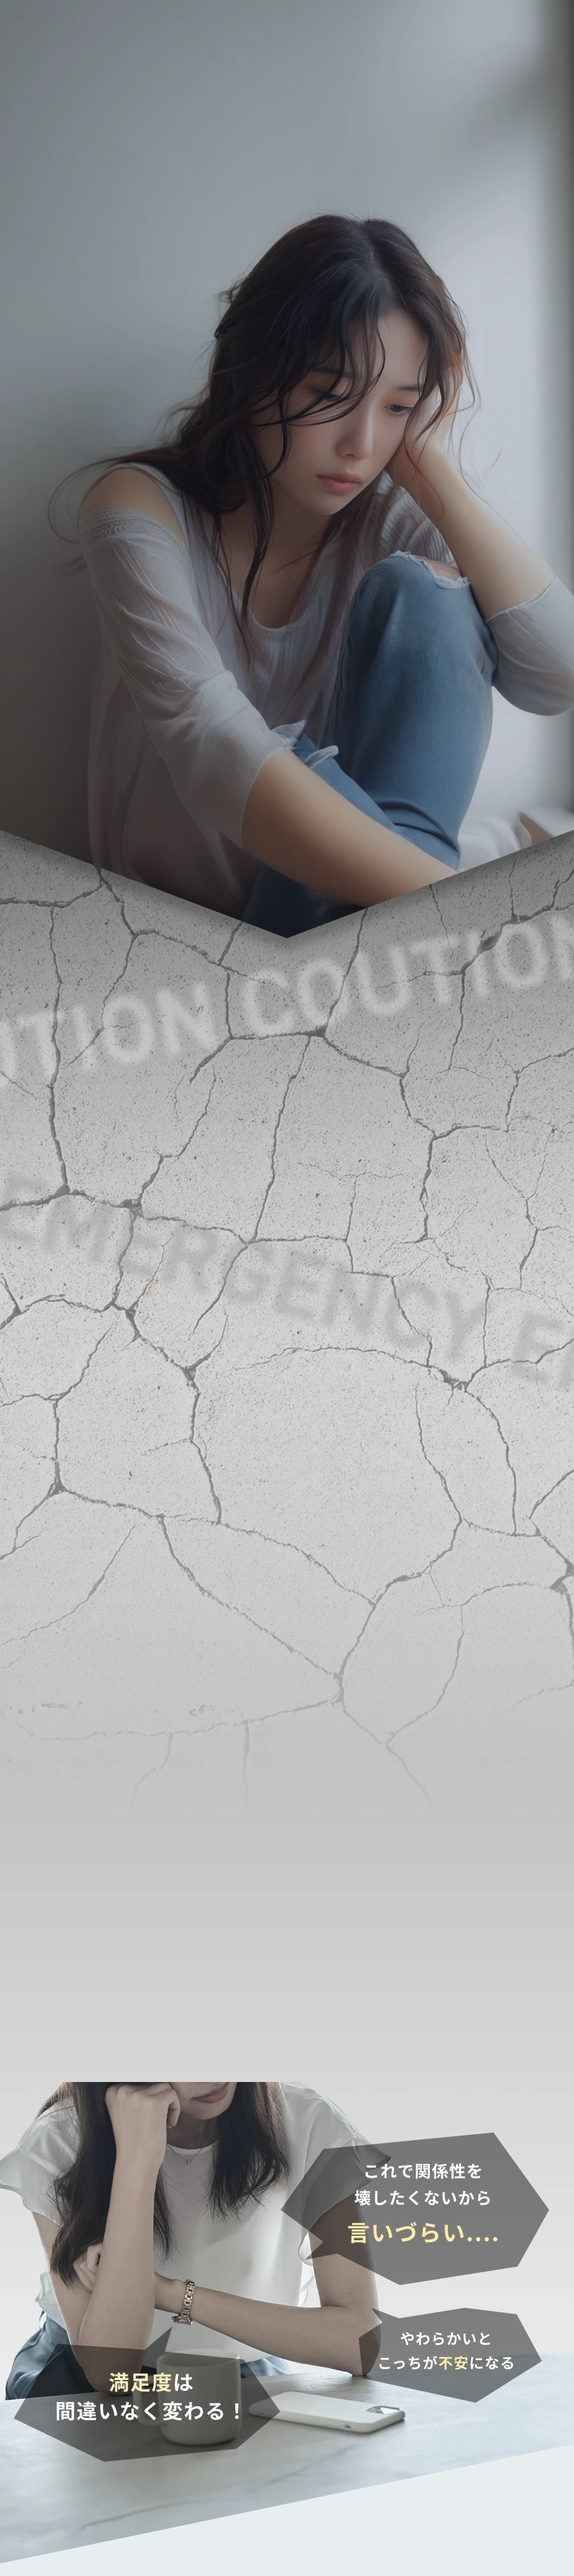
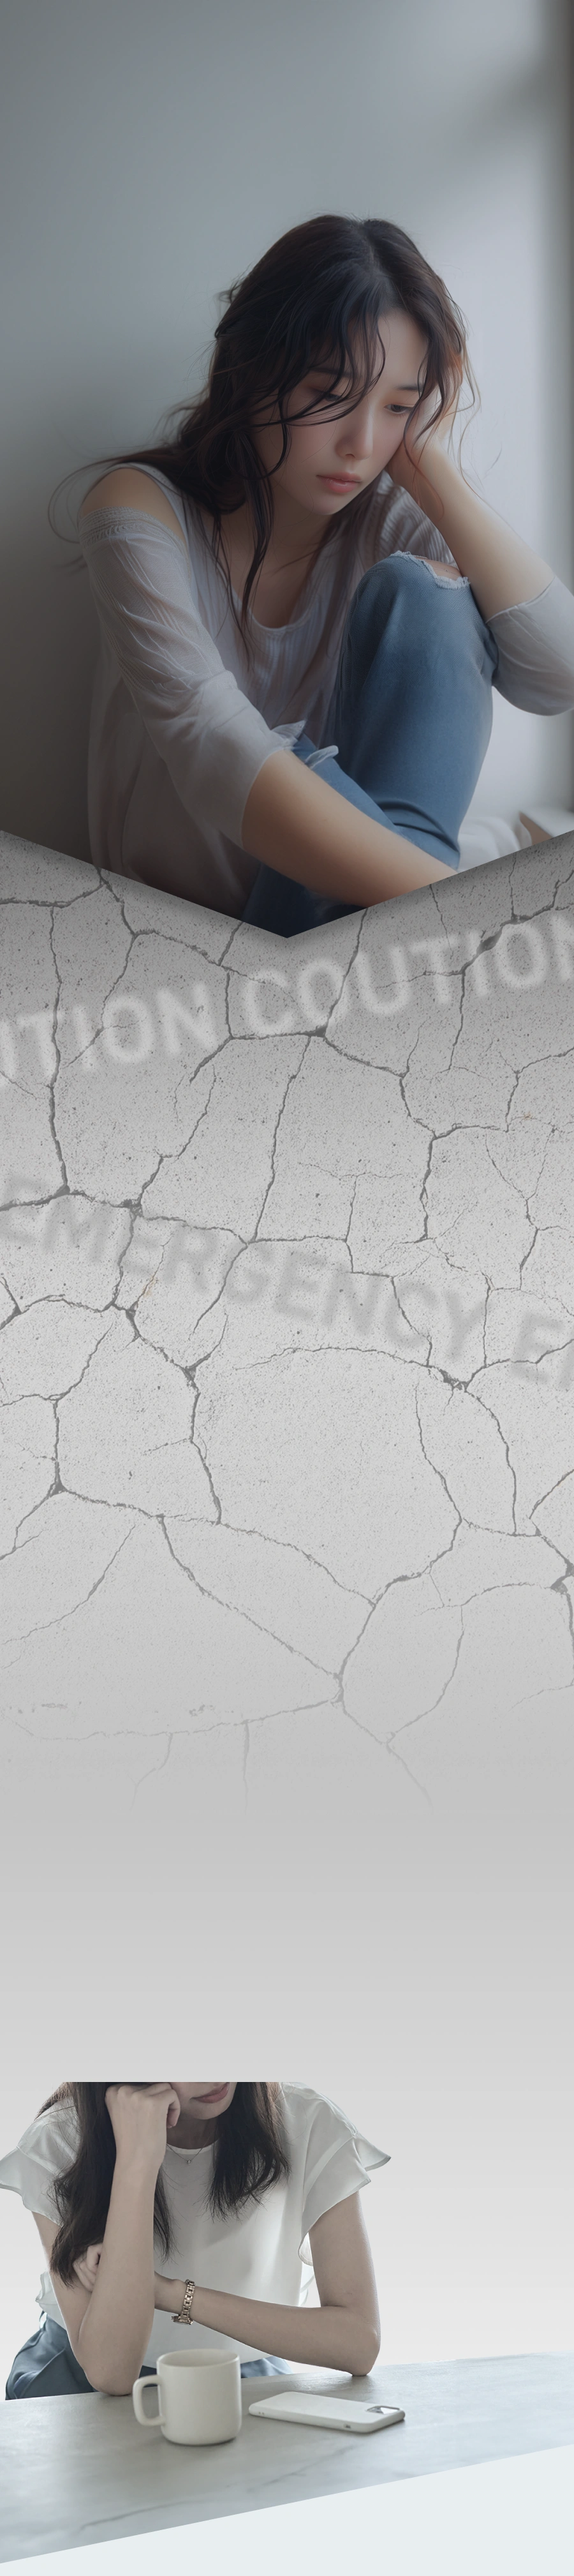
update file

Changed region(s): [[0.4978, 0.8117, 0.9644, 0.9366], [0.0311, 0.9054, 0.4667, 0.9678]]

diff --git a/index.html b/index.html
@@ -110,9 +110,14 @@
 							<img src="./assets/images/coution/coution-bg-text-90.webp" alt="" class="animated fade-in-up animated-delay2">
 							<img src="./assets/images/coution/coution-bg-text-94.webp" alt="" class="animated fade-in-up animated-delay3">
 						</div>
+						<div class="coution-imgs">
+							<img src="./assets/images/coution/box-text1.webp" alt="coution-img" class="animated fade-in-up animated-delay1">
+							<img src="./assets/images/coution/box-text2.webp" alt="coution-img" class="animated fade-in-up animated-delay2">
+							<img src="./assets/images/coution/box-text3.webp" alt="coution-img" class="animated fade-in-up animated-delay3">
+						</div>
 					</div>
 					<div class="caution-therefore-emphasis">
-						<img src="./assets/images/coution/emphasis.webp" alt="">
+						<img src="./assets/images/coution/emphasis.webp" alt="" class="animated fade-in-up">
 					</div>
 				</div>
 			</section>
@@ -122,7 +127,7 @@
 					<img src="./assets/images/check/check-bg.webp" alt="">
 					<div class="check-content">
 						<div class="check-form">
-							<img src="./assets/images/check/icon-check.svg" alt="icon-check-img">
+							<img src="./assets/images/check/icon-check.svg" alt="icon-check-img" class="animated fade-in-up">
 							<form action="#">
 								<div class="form-check-gr">
 									<input type="checkbox" id="check-one">
@@ -154,7 +159,7 @@
 								<span>で</span>
 							</div>
 							<p><span>ED</span>治療薬をお試し<span>!</span></p>
-							<img src="./assets/images/check/check-line.svg" alt="">
+							<img src="./assets/images/check/check-line.svg" alt="" class="animated fade-in-up animated-delay2">
 							<div class="check-fixed-content">
 								<div class="check-doctor">
 									<img src="./assets/images/check/check-doctor.webp" alt="">
@@ -187,14 +192,14 @@
 				<div class="solution-container">
 					<img src="./assets/images/solution/background.webp" alt="">
 					<div class="solution-content">
-						<h3>こんな人に!</h3>
+						<h3 class="animated fade-in-up">こんな人に!</h3>
 						<div class="solution-top">
-							<img src="./assets/images/solution/bg-text.webp" alt="" class="solution-img-text">
-							<img src="./assets/images/solution/bg-sub-text.webp" alt="bg-sub-text" class="solution-bg-sub-text">
+							<img src="./assets/images/solution/bg-text.webp" alt="" class="solution-img-text animated fade-in-up animated-delay2">
+							<img src="./assets/images/solution/bg-sub-text.webp" alt="bg-sub-text" class="solution-bg-sub-text animated fade-in-up animated-delay1">
 						</div>
 						<div class="solution-box">
-							<img src="./assets/images/solution/text-box.svg" alt="text-box-img">
-							<img src="./assets/images/solution/text-box2.webp" alt="text-box-img">
+							<img src="./assets/images/solution/text-box.svg" alt="text-box-img" class="animated fade-in-up animated-delay1">
+							<img src="./assets/images/solution/text-box2.webp" alt="text-box-img" class="animated fade-in-up animated-delay2">
 							<img src="./assets/images/solution/pen.svg" alt="pencil img">
 							<img src="./assets/images/solution/arrow-right.svg" alt="">
 						</div>
@@ -202,12 +207,12 @@
 							<img src="./assets/images/solution/benefits-bg.webp" alt="">
 							<div class="benefits-content">
 								<img src="./assets/images/solution/head-img.webp" alt="benefits-img">
-								<img src="./assets/images/solution/ben-top.webp" alt="benefits-img">
+								<img src="./assets/images/solution/ben-top.webp" alt="benefits-img" class="animated fade-in-up">
 								<div class="benefits-imgs">
-									<img src="./assets/images/solution/ben-item1.webp" alt="solution-img">
-									<img src="./assets/images/solution/ben-item2.webp" alt="solution-img">
-									<img src="./assets/images/solution/ben-item3.webp" alt="solution-img">
-									<img src="./assets/images/solution/ben-item4.webp" alt="solution-img">
+									<img src="./assets/images/solution/ben-item1.webp" alt="solution-img" class="animated fade-in-up">
+									<img src="./assets/images/solution/ben-item2.webp" alt="solution-img" class="animated fade-in-up animated-delay1">
+									<img src="./assets/images/solution/ben-item3.webp" alt="solution-img" class="animated fade-in-up animated-delay2">
+									<img src="./assets/images/solution/ben-item4.webp" alt="solution-img" class="animated fade-in-up animated-delay3">
 								</div>
 								<div class="benefits-content-end">
 									<img src="./assets/images/solution/benefits-end-bg.webp" alt="">
@@ -298,9 +303,9 @@
 					<h3>ちなみに</h3>
 					<div class="effect-content">
 						<div class="effect-box">
-							<img src="./assets/images/effect/chinami_ed.svg" alt="effect-img">
+							<img src="./assets/images/effect/chinami_ed.svg" alt="effect-img" class="animated fade-in-up animated-delay1">
 							<img src="./assets/images/effect/chinami_chigai_to.webp" alt="effect-img">
-							<img src="./assets/images/effect/chinami_kasapuri.svg" alt="effect-img" class="effect-chinami_kasapuri">
+							<img src="./assets/images/effect/chinami_kasapuri.svg" alt="effect-img" class="effect-chinami_kasapuri animated fade-in-up animated-delay1">
 						</div>
 						<p class="effect-text">
 							違い<span>って何？</span>
@@ -353,28 +358,28 @@
 				<div class="customers-container">
 					<div class="customers-top">
 						<h2>お客様の声</h2>
-						<img src="./assets/images/customers/cus-voise.webp" alt="cus-voise">
+						<img src="./assets/images/customers/cus-voise.webp" alt="cus-voise" class="animated fade-in-up animated-delay2">
 					</div>
 					<div class="customers-box">
 						<div class="customers-bubbles01">
-							<img src="./assets/images/customers/cus-bubbles01.webp" alt="" class="cus-bubbles01">
-							<img src="./assets/images/customers/cus-user1.svg" alt="" class="cus-bubbles01-user1">
+							<img src="./assets/images/customers/cus-bubbles01.webp" alt="" class="cus-bubbles01 animated fade-in-up">
+							<img src="./assets/images/customers/cus-user1.svg" alt="" class="cus-bubbles01-user1 animated fade-in-up">
 						</div>
 						<div class="customer-bubbles02">
-							<img src="./assets/images/customers/cus-bubbles02.svg" alt="">
-							<img src="./assets/images/customers/qa-box3.webp" alt="">
+							<img src="./assets/images/customers/cus-bubbles02.svg" alt="" class="animated fade-in-up">
+							<img src="./assets/images/customers/qa-box3.webp" alt="" class="animated fade-in-up">
 						</div>
 						<div class="customer-qa">
-							<img src="./assets/images/customers/cus-user-qa.webp" alt="">
+							<img src="./assets/images/customers/cus-user-qa.webp" alt="" class="animated fade-in-up">
 							<img src="./assets/images/customers/qa-box.webp" alt="">
 							<img src="./assets/images/customers/qa-box2.webp" alt="">
 						</div>
 						<div class="customer-bubbles03">
-							<img src="./assets/images/customers/cus-bubbles03.svg" alt="">
+							<img src="./assets/images/customers/cus-bubbles03.svg" alt="" class="animated fade-in-up">
 						</div>
 						<div class="customer-bubbles04">
-							<img src="./assets/images/customers/cus-user4.svg" alt="" class="cus-bubbles-user4">
-							<img src="./assets/images/customers/cus-bubbles04.webp" alt="" class="cus-bubbles04">
+							<img src="./assets/images/customers/cus-user4.svg" alt="" class="cus-bubbles-user4 animated fade-in-up">
+							<img src="./assets/images/customers/cus-bubbles04.webp" alt="" class="cus-bubbles04 animated fade-in-up">
 						</div>
 					</div>
 				</div>
@@ -386,13 +391,13 @@
 						<img src="./assets/images/reasons/reasons-head.webp" alt="">
 						<p>エミシアクリニックが</p>
 						<p>選ばれる
-							<span>6</span>
+							<span class="animated fade-in-up animated-delay2">6</span>
 							つの理由</p>
 						<img src="./assets/images/reasons/head-full-line.svg" alt="">
 					</div>
 					<div class="reasons-content">
 						<ul>
-							<li>
+							<li class="animated fade-in-up">
 								<div class="reasons-img">
 									<img src="./assets/images/reasons/reasons_kusuri.svg" alt="">
 								</div>
@@ -400,7 +405,7 @@
 									<img src="./assets/images/reasons/reasons-box1.webp" alt="">
 								</div>
 							</li>
-							<li>
+							<li class="animated fade-in-up animated-delay2">
 								<div class="reasons-img">
 									<img src="./assets/images/reasons/reasons_line.svg" alt="">
 								</div>
@@ -410,7 +415,7 @@
 							</li>
 						</ul>
 						<ul>
-							<li>
+							<li class="animated fade-in-up">
 								<div class="reasons-img">
 									<img src="./assets/images/reasons/reasons_24h.svg" alt="">
 								</div>
@@ -418,7 +423,7 @@
 									<img src="./assets/images/reasons/reasons-box3.webp" alt="">
 								</div>
 							</li>
-							<li>
+							<li class="animated fade-in-up animated-delay2">
 								<div class="reasons-img">
 									<img src="./assets/images/reasons/reasons_sercurity.svg" alt="">
 								</div>
@@ -428,7 +433,7 @@
 							</li>
 						</ul>
 						<ul>
-							<li>
+							<li class="animated fade-in-up">
 								<div class="reasons-img">
 									<img src="./assets/images/reasons/reasons_doctor.svg" alt="">
 								</div>
@@ -436,7 +441,7 @@
 									<img src="./assets/images/reasons/reasons-box5.webp" alt="">
 								</div>
 							</li>
-							<li>
+							<li class="animated fade-in-up animated-delay2">
 								<div class="reasons-img">
 									<img src="./assets/images/reasons/reasons_japan.svg" alt="">
 								</div>
@@ -464,22 +469,22 @@
 								</div>
 							</div>
 							<div class="emishialine-box">
-								<div class="emishialine-item">
+								<div class="emishialine-item animated fade-in-up animated-delay1">
 									<img src="./assets/images/emishia/item-text.webp" alt="">
 									<img src="./assets/images/emishia/emishia_line_kusuri.svg" alt="" class="emishia_line_kusuri">
 								</div>
-								<div class="emishialine-item">
+								<div class="emishialine-item animated fade-in-up animated-delay2">
 									<img src="./assets/images/emishia/item-text2.webp" alt="">
 									<img src="./assets/images/emishia/emishia_line_note02.svg" alt="" class="emishia_line_kusuri">
 								</div>
-								<div class="emishialine-item">
+								<div class="emishialine-item animated fade-in-up animated-delay3">
 									<img src="./assets/images/emishia/item-text3.webp" alt="">
 									<img src="./assets/images/emishia/emishia_line_coupon01.svg" alt="" class="emishia_line_kusuri">
 								</div>
 							</div>
 							<div class="emishialine-bottom">
-								<img src="./assets/images/emishia/emishia_line_bottom03.webp" alt="">
-								<img src="./assets/images/emishia/emishia_line_bottom02.webp" alt="">
+								<img src="./assets/images/emishia/emishia_line_bottom03.webp" alt="" class="animated fade-in-up">
+								<img src="./assets/images/emishia/emishia_line_bottom02.webp" alt="" class="animated fade-in-up">
 								<p class="emishialine-bottom-text">役立つサービス盛りだくさん！</p>
 							</div>
 						</div>
@@ -521,7 +526,7 @@
 							<p>ED薬ご購入までの流れ</p>
 							<div class="steps-head-text">
 								<p>かんたん</p>
-								<span>5</span>
+								<span class="animated fade-in-up animated-delay2">5</span>
 								<p>STEP</p>
 							</div>
 							<img src="./assets/images/steps/steps-full-line.svg" alt="">

diff --git a/assets/css/lp-custom.scss b/assets/css/lp-custom.scss
@@ -463,6 +463,25 @@ a {
         transform: translateX(-50%);
         z-index: 10;
     }
+    .coution-imgs {
+        img:first-child {
+            width: 421px;
+            float: right;
+            padding-top: 34px;
+            padding-right: 40px;
+        }
+        img:nth-child(2){
+            float: left;
+            width: 443px;
+            margin-top: -22px;
+            padding-left: 16px;
+        }
+        img:nth-child(3) {
+            float: right;
+            padding-right: 50px;
+            margin-top: 34px;
+        }
+    }
 }
 
 //check
@@ -1343,7 +1362,7 @@ a {
 
 //reasons
 .reasons {
-    margin-bottom: 36px;
+    margin-bottom: 42px;
     &-head {
         margin-bottom: 42px;
         padding-top: 71px;
@@ -2601,6 +2620,26 @@ a {
                 width: 52.333vw;
             }
         }
+        .coution-imgs {
+            img:first-child {
+                width: 46.778vw;
+                float: right;
+                padding-top: 3.778vw;
+                padding-right: 4.444vw;
+            }
+            img:nth-child(2){
+                float: left;
+                width: 49.222vw;
+                margin-top: -2.444vw;
+                padding-left: 1.778vw;
+            }
+            img:nth-child(3) {
+                width: 32vw;
+                float: right;
+                padding-right: 5.556vw;
+                margin-top: 3.778vw;
+            }
+        }
     }
     //check
     .check {
@@ -3169,7 +3208,7 @@ a {
     }
     //reasons
     .reasons {
-        margin-bottom: 4vw;
+        margin-bottom: 4.667vw;
         &-head {
             margin-bottom: 4.667vw;
             padding-top: 7.889vw;

diff --git a/assets/css/lp-custom.css b/assets/css/lp-custom.css
@@ -445,6 +445,23 @@ a {
   transform: translateX(-50%);
   z-index: 10;
 }
+.coution .coution-imgs img:first-child {
+  width: 421px;
+  float: right;
+  padding-top: 34px;
+  padding-right: 40px;
+}
+.coution .coution-imgs img:nth-child(2) {
+  float: left;
+  width: 443px;
+  margin-top: -22px;
+  padding-left: 16px;
+}
+.coution .coution-imgs img:nth-child(3) {
+  float: right;
+  padding-right: 50px;
+  margin-top: 34px;
+}
 
 .check-container {
   position: relative;
@@ -1290,7 +1307,7 @@ a {
 }
 
 .reasons {
-  margin-bottom: 36px;
+  margin-bottom: 42px;
 }
 .reasons-head {
   margin-bottom: 42px;
@@ -2429,6 +2446,24 @@ a {
   .coution .caution-therefore-emphasis img {
     width: 52.333vw;
   }
+  .coution .coution-imgs img:first-child {
+    width: 46.778vw;
+    float: right;
+    padding-top: 3.778vw;
+    padding-right: 4.444vw;
+  }
+  .coution .coution-imgs img:nth-child(2) {
+    float: left;
+    width: 49.222vw;
+    margin-top: -2.444vw;
+    padding-left: 1.778vw;
+  }
+  .coution .coution-imgs img:nth-child(3) {
+    width: 32vw;
+    float: right;
+    padding-right: 5.556vw;
+    margin-top: 3.778vw;
+  }
   .check-container {
     top: -1.111vw;
   }
@@ -2943,7 +2978,7 @@ a {
     left: 5.444vw;
   }
   .reasons {
-    margin-bottom: 4vw;
+    margin-bottom: 4.667vw;
   }
   .reasons-head {
     margin-bottom: 4.667vw;
